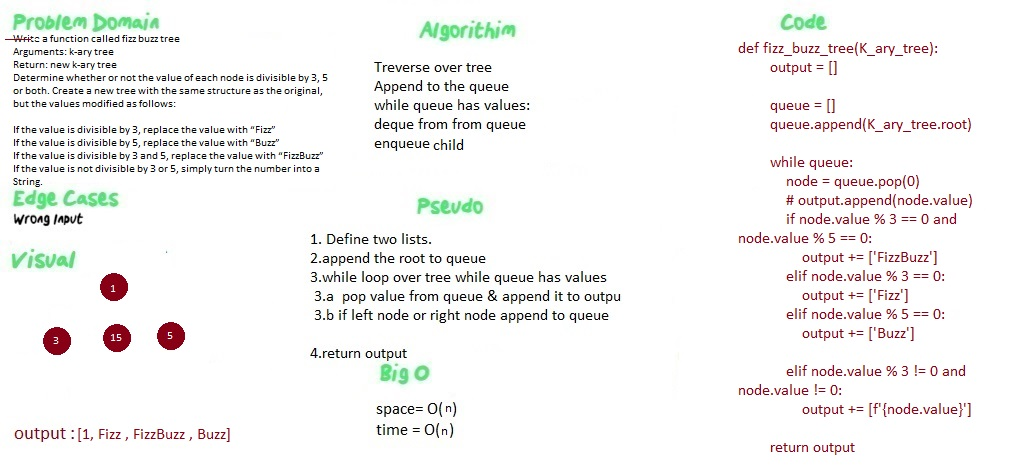
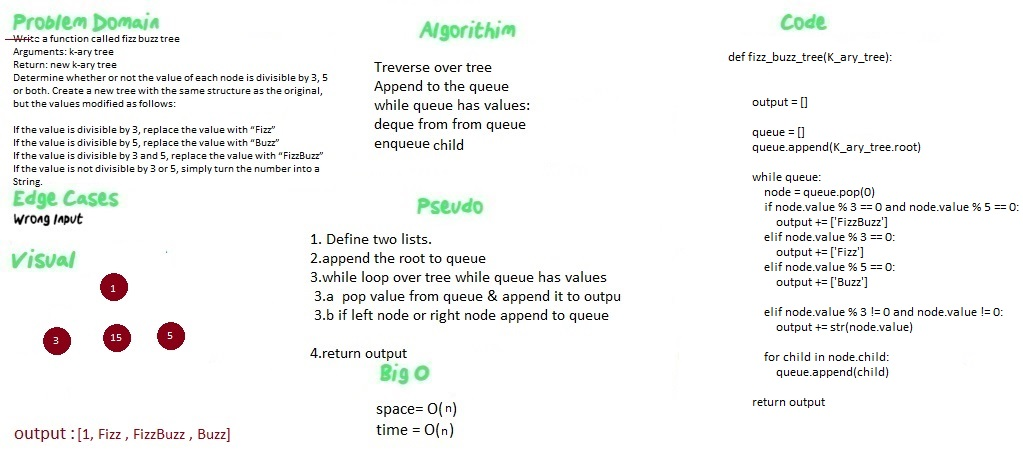
fin

Changed region(s): [[0.7273, 0.2081, 1.0, 0.8917], [0.697, 0.0892, 0.9394, 0.1783], [0.7576, 0.9214, 0.8485, 0.9809]]

diff --git a/challenges/fizz_buzz_tree/fizz_buzz_tree/fizz_buzz_tree.py b/challenges/fizz_buzz_tree/fizz_buzz_tree/fizz_buzz_tree.py
@@ -8,6 +8,8 @@ class K_ary_tree:
         self.root = root
 
 def fizz_buzz_tree(K_ary_tree):
+
+
         output = []
         
         queue = []
@@ -15,8 +17,6 @@ def fizz_buzz_tree(K_ary_tree):
         
         while queue:
             node = queue.pop(0)
-            # output.append(node.value)
-            output = []
             if node.value % 3 == 0 and node.value % 5 == 0:
                 output += ['FizzBuzz']
             elif node.value % 3 == 0:
@@ -25,7 +25,10 @@ def fizz_buzz_tree(K_ary_tree):
                 output += ['Buzz']
             
             elif node.value % 3 != 0 and node.value != 0:
-                output += [f'{node.value}']
+                output += str(node.value)
+
+            for child in node.child:
+                queue.append(child)
 
         return output
 
@@ -34,11 +37,16 @@ if __name__ == "__main__":
 
     k_tree = K_ary_tree()
     k_tree.root = Node(3)
-    k_tree.root.child.append(5)
-    k_tree.root.child.append(15)
-    k_tree.root.child.append(9)
-    k_tree.root.child.append(7)
+    k_tree.root.child+=[Node(7)]
+    k_tree.root.child+=[Node(6)]
+    k_tree.root.child+=[Node(2)]
+    k_tree.root.child+=[Node(5)]
+    k_tree.root.child+=[Node(15)]
+    k_tree.root.child+=[Node(5)]
+    k_tree.root.child+=[Node(9)]
+    k_tree.root.child+=[Node(4)]
 
 
 
     print(fizz_buzz_tree(k_tree))
+
